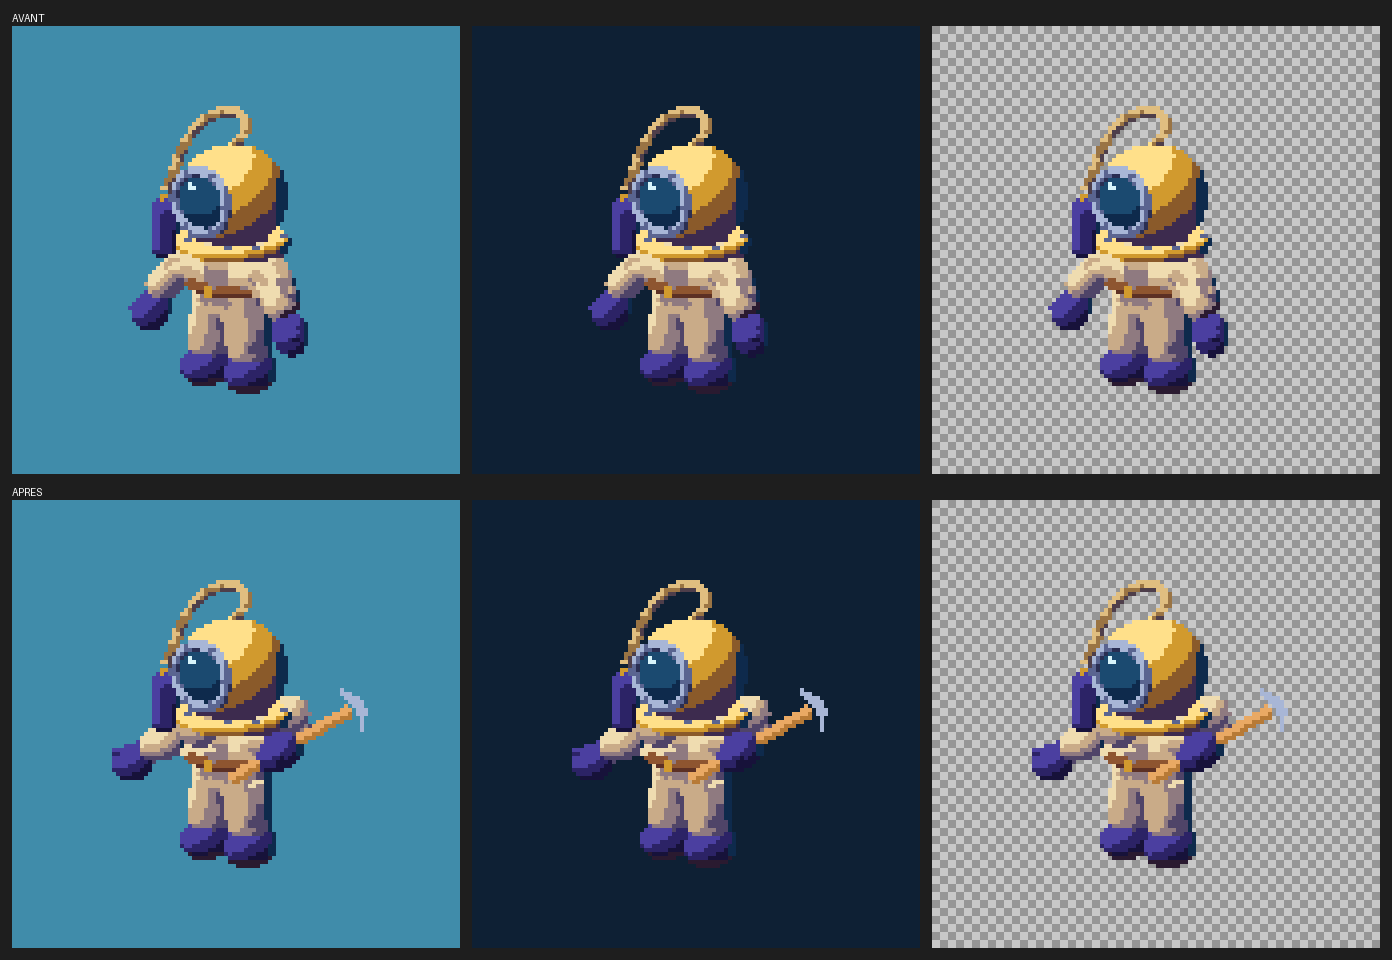
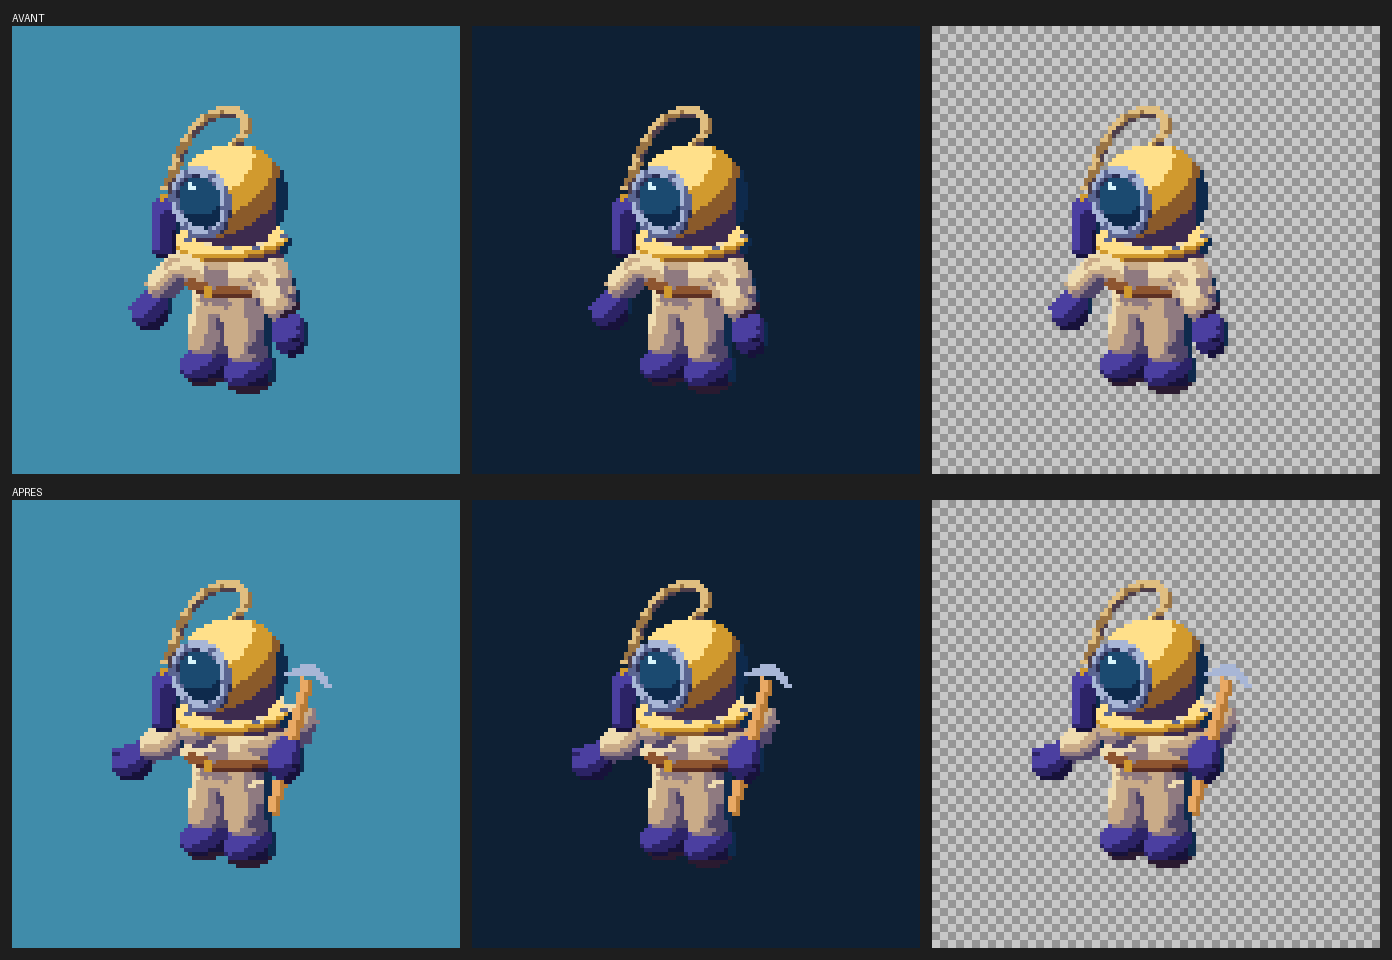
Creusage : relecture 1 corrigée : contrôle de tête sur l'acier seul, bras gauche hors casque, armement plus bas que le sommet, retour à 15 degrés
- tools/animation/controles.py : acier = bleu-gris visible (les gants violets et les pixels cachés ne comptent plus).
  Tolérance 12 x 4 inchangée. Les valeurs antérieures (16x20, 30x16) étaient fausses.
- poses : armement (pioche -15, bras droit 135/75, gauche -90/-60), sommet (pioche 15, bras gauche -75/-75),
  retour (pioche 15, bras droit 90/-30). Frappe inchangée.
- contrôles : 4 images OK, prête et frappe en ÉCHEC (causes géométriques chiffrées dans ETAT.md).
- journal : entrées 1 à 6 mises à jour (SHA-256 recalculés), états de contrôle notés.
- ETAT.md : décisions A (prête), B (frappe, critère de tête), C (continuité du gant) pour Julien.

Claude-Session: https://claude.ai/code/session_01MakRNt29dULcXZ9NF9S3dJ

Changed region(s): [[0.4943, 0.6875, 0.6178, 0.8438], [0.8341, 0.6875, 0.9267, 0.8438], [0.1545, 0.6875, 0.278, 0.8438]]

diff --git a/tools/animation/controles.py b/tools/animation/controles.py
@@ -45,9 +45,10 @@ def visible(calques_ordre, masques):
 
 
 def steel(rgba):
-    """Pixels d'acier de la pioche : bleu-gris clair (même tons que le cadre d'acier de l'ancre)."""
+    """Pixels d'acier de la pioche : bleu-gris (#a8b6d6, #5a6490 : vert au-dessus du rouge). Les gants violets
+    (75,63,160) sont exclus : leur vert est sous leur rouge."""
     r, g, b, a = [rgba[..., i].astype(int) for i in range(4)]
-    return (a > 0) & (b > r + 25) & (b > 120)
+    return (a > 0) & (b > r + 25) & (b > 120) & (g >= r + 5)
 
 
 def main():
@@ -105,7 +106,7 @@ def main():
         hauteur = int(ys.max() - ys.min() + 1) if len(ys) else 0
         contr["hauteur_px"] = {"valeur": hauteur, "max": HAUTEUR_MAX, "ok": hauteur <= HAUTEUR_MAX}
         # 5. tête d'acier : bbox des pixels d'acier de la pioche visibles
-        st = steel(rgba) & bloc
+        st = steel(rgba) & bloc & (qui == i_bloc)  # visible seulement : une tête cachée derrière le casque ne compte pas
         if np.any(st):
             yy, xx = np.nonzero(st)
             lw, lh = int(xx.max() - xx.min() + 1), int(yy.max() - yy.min() + 1)

diff --git a/ETAT.md b/ETAT.md
@@ -1,38 +1,46 @@
 # ETAT.md — Où en est le projet (tenu à jour par l'agent à chaque étape importante)
 
-## Phase courante : CREUSAGE, méthode 2D par pièces — LOT COMPLET (images 1 à 6), fin de lot, pour validation de Julien
+## Phase courante : CREUSAGE, méthode 2D par pièces — LOT EN COURS, 4 images sur 6 en contrôle OK, 2 en échec à décider par Julien
 
-Autonomie demandée (Julien) : étapes 3 et 4 puis le lot complet, arrêt en fin de lot. Fait : assembleur, contrôles, six images, feuille, planches ×4 par image, entrées de journal, relecture indépendante (voir Relecture). Non fait : arc de mouvement, retouche Aseprite (voir Écarts).
+Lot : `art/pixel/plongeur_v6/creusage/lot/` (fiche.json, poses/, sortie/, controles/, boards/, feuille/creusage.png + .json, journal : `art/journal/plongeur_creusage.json`).
 
-Lot : `art/pixel/plongeur_v6/creusage/lot/`
-- fiche : `fiche.json` (images, durées 4,4,2,2,4,3, politique des paires) et `FICHE.md`.
-- poses : `poses/01_prete.json` … `06_retour.json` (angles bras droit haut/avant, pioche, buste, casque, ordre des calques).
-- images assemblées : `sortie/<nom>.png` (112 x 112), masques par calque `sortie/masques/`, mesures `sortie/<nom>.json`.
-- contrôles mécaniques : `controles/controles.md` et `controles.json`.
-- planches ×4 (ancre avant, image après) : `boards/creusage_<n>_<nom>.png`.
-- feuille (tag `creusage`, durées) : `feuille/creusage.png` + `feuille/creusage.json`.
-- journal : `art/journal/plongeur_creusage.json` (une entrée par image, SHA-256 des planches).
+### Contrôles (sortie de `python3 tools/animation/controles.py`)
+| image | pioche/casque | hublot | bras/casque | hauteur | tête visible (LxH) | verdict |
+|---|---|---|---|---|---|---|
+| 1 prête | 0 | 0 | 0 | 72 | 0x0 (cachée) | **ÉCHEC** |
+| 2 armement | 0 | 0 | 0 | 72 | 12x6 | OK |
+| 3 sommet | 0 | 0 | 0 | 72 | 12x6 | OK |
+| 4 frappe | 0 | 0 | 0 | 70 | 6x12 | **ÉCHEC** |
+| 5 impact | 0 | 0 | 0 | 68 | 12x6 | OK |
+| 6 retour | 1 | 0 | 0 | 72 | 12x6 | OK |
 
-Contrôles (sortie de `python3 tools/animation/controles.py ...`, sans modification de contrôle) : 6 images OK ; images distinctes OK ; isolés 0 ; palette hors ancre 0 ; hauteur 68 à 72 ; pioche/casque 0 à 1 px (tolérance 2) ; hublot 0 ; bras/casque 0 (tolérance 1). Boucle : prête vs ancre 480 px, retour vs prête 414 px (pas de seuil numérique défini).
+Séquence : images distinctes OK ; isolés 0 ; palette hors ancre 0 ; boucle prête vs ancre 480 px, retour vs prête 401 px (pas de seuil numérique défini).
 
-## Écarts et décisions à prendre (Julien)
-1. **Contrôle de tête non fiable** : `controles.py` compte comme acier les pixels bleu-violet des gants. La tête mesurée est donc fausse (16x20, 30x16 : bbox gants + manche). Mesure réelle de la tête de pioche à 0° : 11 px de large, 5 px de haut (bloc +000, pixels d'acier de la tête). Le critère 12 x 4 n'est pas vérifié. À corriger dans `controles.py` (interdit de ma part sans accord) ou à vérifier à la main.
-2. **Prête** : la tête de pioche est cachée derrière le casque (72 px visibles sur 180) ; le geste ne se lit pas bien. Décision : passer la tête devant le casque (pose plus haute), ou garder le passage derrière déclaré.
-3. **Angles de pioche snappés à 15°** (fiche : prête −50, armement −10, sommet 35, frappe 110, impact 150, retour 60) :
-   - prête −45 (−5°) ; armement −15 (−5°) ; frappe 105 (−5°) ; retour 60 (0°) ;
-   - sommet 15 au lieu de 30 : à 30°, la pioche traverse le casque (53 px de chevauchement), et l'atteindre exige une portée plus grande que les bras (18,4 px) ;
-   - impact 165 au lieu de 150 : à 150° le manche touche le casque (13 à 15 px) ; à 165°, 0 à 1 px.
-4. **Tête de pioche petite** : 11 à 12 px de large, pâle à ×1 (image 4 surtout). À revoir dans le rendu du bloc.
-5. **Arc de mouvement** (effet séparé, 3 à 4 images) : NON FAIT. Demande un rendu Blender de la trajectoire (pas de dessin par code).
-6. **Retouche Aseprite** : NON FAITE (pas nécessaire pour les contrôles ; à faire après validation de la pose).
-7. **Outils hors dossiers permis** : `tools/animation/assembleur.py`, `controles.py`, `essai.py` utilisent numpy/Pillow hors des dossiers listés dans AGENTS.md (tools/mesure, tools/planches, tools/pixelisation, tests/robot). Ils assemblent et mesurent, ils ne dessinent pas. À trancher : les déplacer ou autoriser le dossier.
-8. **Bug corrigé dans `essai.py`** : comparait les noms de calques à un index (toujours 0). Corrigé. Les valeurs d'essai antérieures à la correction sont invalides.
-9. Angles des bras gauches réglés à l'œil (aucune contrainte mesurée).
+### Correction du contrôle de tête (faite, tolérance inchangée : 12 x 4)
+`controles.py` comptait comme acier les pixels bleu-violet des GANTS (75,63,160 passait le critère), et comptait les pixels cachés derrière le casque. Corrigé : acier = pixels bleu-gris dont le vert dépasse le rouge (#a8b6d6, #5a6490), visibles seulement. Les anciennes valeurs (16x20, 30x16, 12x17 pour la prête) étaient fausses. Le relecteur l'avait signalé.
 
-## Relecture
-Relecteur indépendant (sous-agent, sans mes conclusions) : résultat à consigner ci-dessous.
+### Relecture indépendante (sous-agent, première passe) : 5 défauts bloquants — suite donnée
+1. Prête : pas de tête visible au-dessus de l'épaule. → NON RÉSOLU (voir Décision A).
+2. Frappe : pioche presque horizontale, pas de frappe en pleine descente. → NON RÉSOLU (voir Décision B).
+3. Sommet : pas plus haut que l'armement. → RÉSOLU : armement abaissé (tête y 28), sommet au plafond (y 22).
+4. Gant droit : centre qui saute (23 px entre images 3 et 4). → NON RÉSOLU (voir Décision C).
+5. Images 2-3 : gant gauche absent. → RÉSOLU : coude gauche sorti du casque (armement -90/-60, sommet -75/-75), gant visible à x 28-34.
+Non bloquants : manche qui dépasse le gant (2-3) ; manche devant la poitrine (6, déclaré) ; arc de mouvement absent (NON FAIT) ; contrôle tête (RÉSOLU, voir ci-dessus).
+Relecteur à relancer après décisions A à C.
 
-Blocage : aucun bloquant technique. Les écarts 1 à 3 demandent une décision de Julien.
+### Décisions à prendre (Julien)
+- **A. Prête** : à -45 degrés, la tête de pioche est dans la silhouette du casque pour toute position atteignable du gant (portée 18,4 px). Options : (1) garder la tête cachée et accepter l'échec ; (2) passer le manche à +30 degrés (tête en haut-droite, visible) : cela change l'angle validé dans la fiche d'intention ; (3) autoriser la pioche devant le casque (alors le contrôle pioche/casque passe à interdit).
+- **B. Frappe** : tête de 12 px de large et 4 px d'épaisseur : vue de profil (90 degrés), elle fait 4 px de large, vue à 105 degrés, 6 px. Le critère 12 px de large est donc impossible pour toute pioche vue de profil. À 135 ou 150 degrés (vraie frappe), la pioche touche le casque (52 à 60 px) avec le gant au niveau de la poitrine ; il faut un gant plus loin (portée insuffisante, +40 % interdits sans rendu nouveau) ou une tête plus longue (14 px à 135 degrés : tête vue de côté à 12,7 px). Options : (1) appliquer le critère de largeur aux images clés seulement (armement, sommet, impact) ; (2) allonger la tête à 14 px (fiche : 12 à 14 px) et refaire la frappe à 135 degrés avec le gant plus à droite ; (3) garder la frappe à 105 degrés et accepter l'échec.
+- **C. Continuité du geste** : le gant droit saute de 12 à 23 px entre les images. Des images intermédiaires (descente, remontée) sont nécessaires, mais elles traversent les angles de tête vus de profil (45 à 135 degrés), où le critère B échoue. Lié à la décision B.
+
+### Autres écarts
+- Angles snappés à 15 degrés (fiche : prête -50, armement -10, sommet 35, frappe 110, impact 150, retour 60) : prête -45, armement -15, sommet 15 (30 traverse le casque : 53 px), frappe 105, impact 165 (150 touche le casque : 13 px), retour 15 (60 : tête de 7 px).
+- Arc de mouvement (effet séparé) : NON FAIT (demande un rendu Blender de la trajectoire).
+- Retouche Aseprite : NON FAITE.
+- `tools/animation/` (assembleur, contrôles, essai) utilise numpy/Pillow hors des dossiers listés dans AGENTS.md. À trancher : déplacer ou autoriser.
+- Bug corrigé dans `essai.py` (comparaison de noms de calques à un index) : les mesures antérieures étaient fausses.
+
+Blocage : décisions A à C (aucun blocage technique).
 
 ## Ancienne phase : CREUSAGE, cible 3D v7 (non validée)
 Julien : v5 non validée (bras disparu et pioche flottante à l'image 2 ; manche trop vertical ; tête trop petite ; image 5 à 73 px). Règle permanente ajoutée à AGENTS.md (RÈGLE ANIMATION A à E). Appliquée au creusage : table de poses, planche cible 3D, contrôles automatiques. Pas de pixel art tant que la cible n'est pas validée.

diff --git a/art/pixel/plongeur_v6/creusage/lot/controles/controles.md b/art/pixel/plongeur_v6/creusage/lot/controles/controles.md
@@ -1,10 +1,10 @@
 | image | pioche/casque | hublot | bras/casque | hauteur | tête (LxH) | isolés | palette hors ancre | verdict |
 |---|---|---|---|---|---|---|---|---|
-| 1 prete | 0 | 0 | 0 | 72 | 16x20 | 0 | 0 | OK |
-| 2 armement | 0 | 0 | 0 | 72 | 14x26 | 0 | 0 | OK |
-| 3 sommet | 0 | 0 | 0 | 72 | 16x26 | 0 | 0 | OK |
-| 4 frappe_descente | 0 | 0 | 0 | 70 | 30x16 | 0 | 0 | OK |
-| 5 impact | 0 | 0 | 0 | 68 | 16x29 | 0 | 0 | OK |
-| 6 retour | 0 | 0 | 0 | 72 | 28x18 | 0 | 0 | OK |
+| 1 prete | 0 | 0 | 0 | 72 | 0x0 | 0 | 0 | ÉCHEC |
+| 2 armement | 0 | 0 | 0 | 72 | 12x6 | 0 | 0 | OK |
+| 3 sommet | 0 | 0 | 0 | 72 | 12x6 | 0 | 0 | OK |
+| 4 frappe_descente | 0 | 0 | 0 | 70 | 6x12 | 0 | 0 | ÉCHEC |
+| 5 impact | 0 | 0 | 0 | 68 | 12x6 | 0 | 0 | OK |
+| 6 retour | 1 | 0 | 0 | 72 | 12x6 | 0 | 0 | OK |
 
-Séquence : images distinctes OK ; changements px entre images [1011, 1068, 1403, 1386, 1712] ; boucle {'premiere_vs_ancre_px_differents': 480, 'derniere_vs_premiere_px_differents': 414}
+Séquence : images distinctes OK ; changements px entre images [1051, 1119, 1452, 1386, 1711] ; boucle {'premiere_vs_ancre_px_differents': 480, 'derniere_vs_premiere_px_differents': 401}
